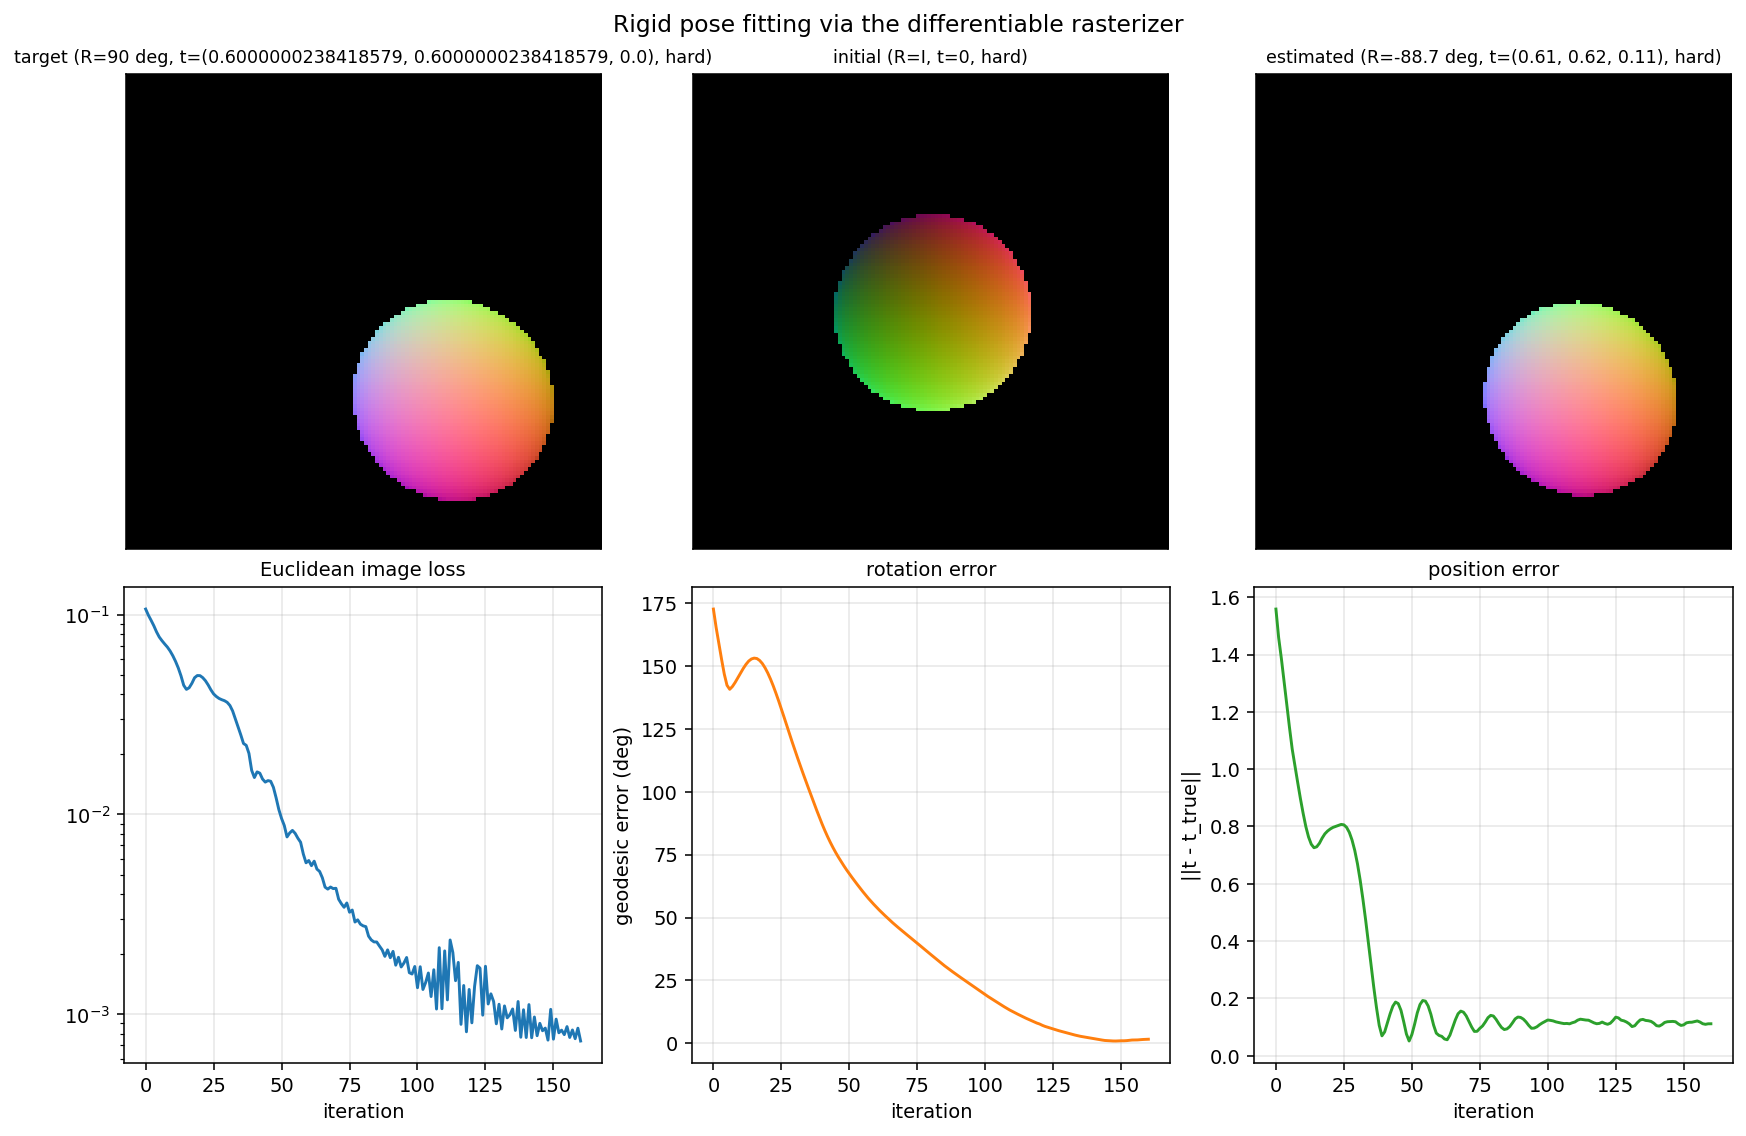
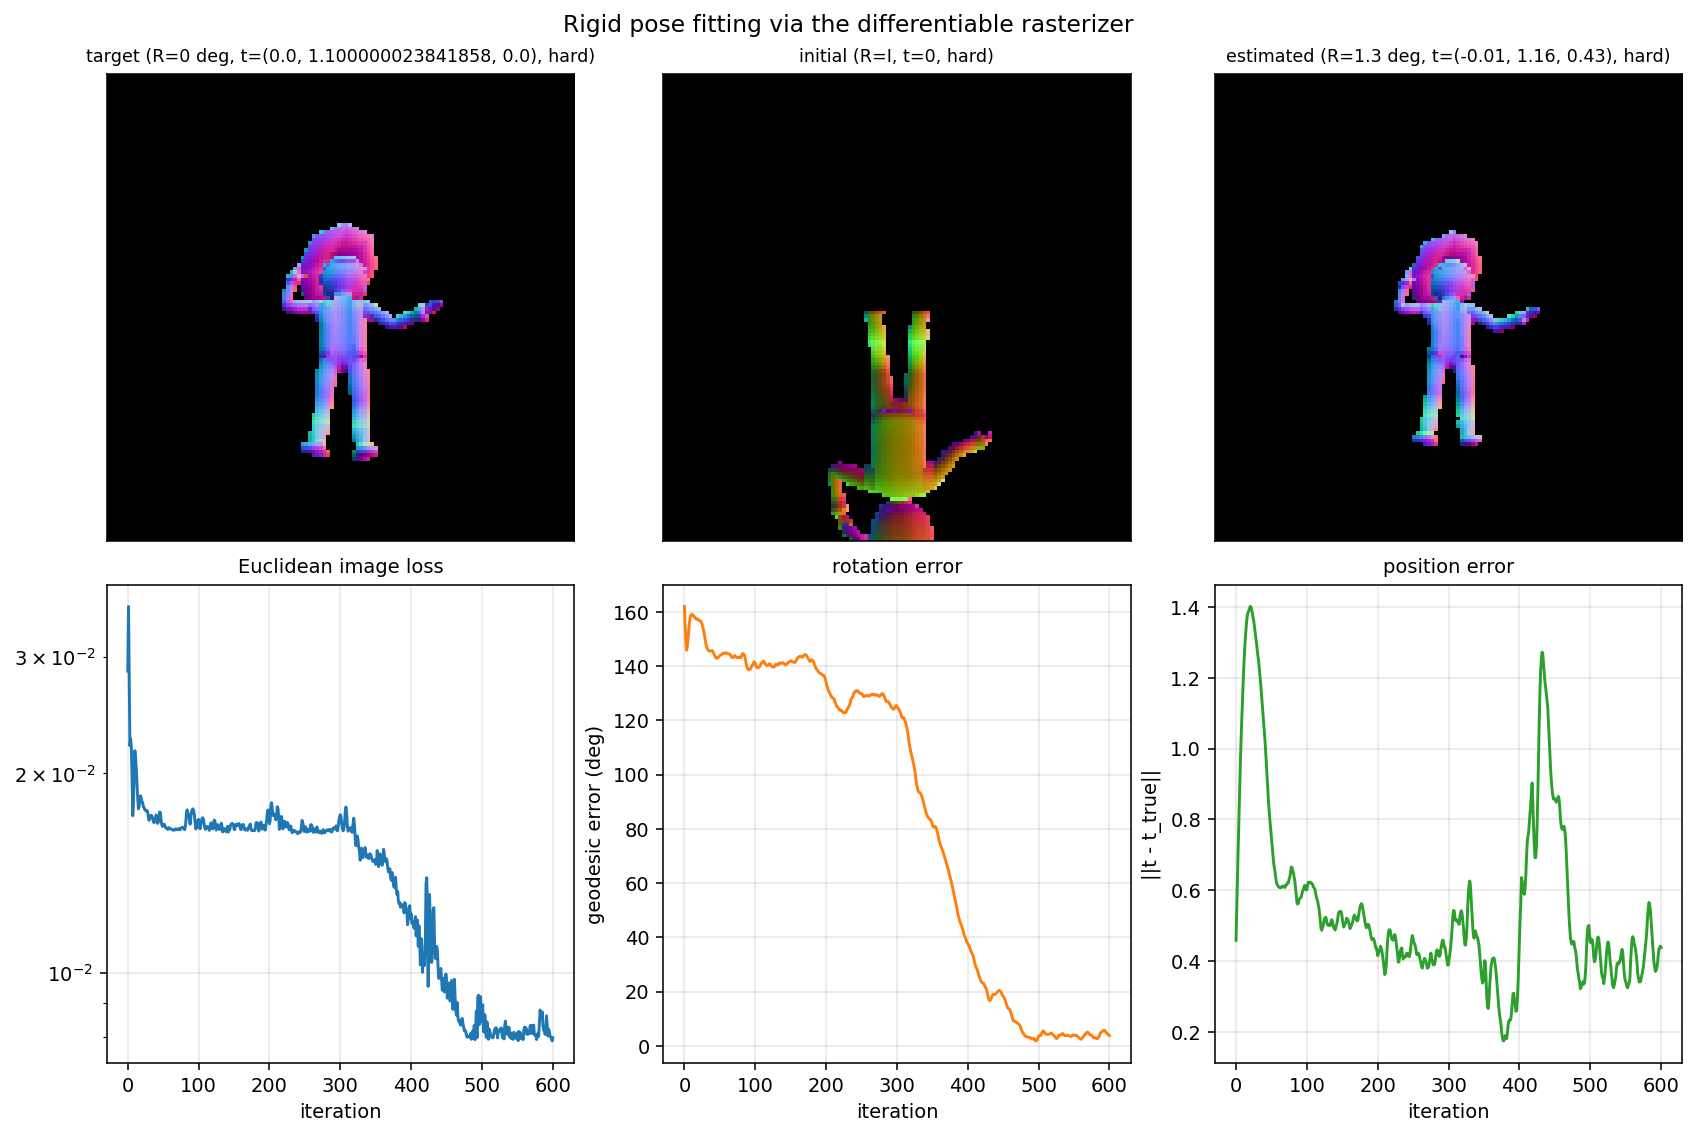
Dave pose estimation

diff --git a/docs/examples/rasterizer/pose_fitting.py b/docs/examples/rasterizer/pose_fitting.py
@@ -72,19 +72,20 @@ def y_angle(r):
 def main():
     here = os.path.dirname(os.path.abspath(__file__))
 
-    select_run = "sphere"
+    select_run = "dave"
 
     if select_run == "dave":
         # Optimization at a modest resolution keeps ~400 jitted iterations fast.
         H, W = 128, 128
+        scale = 1.3
         angle_true_deg = 0  # unknown rotation we try to recover
-        R_true = rf._rotation_y(jnp.deg2rad(angle_true_deg)) @ rf._rotation_x(jnp.deg2rad(180))
-        position_true = jnp.array([0.3, 0.8, 0.0])  # unknown translation we try to recover
-        pos_init = jnp.zeros(3)
-        params = (rf._rotation_y(76.0) @ R_true, pos_init)
-        n_steps = 100
-        learning_rate = 1e-2
-        scale = 1.0
+        R_true = rf._rotation_x(jnp.deg2rad(150))
+        position_true = jnp.array([0.0, 1.1, 0.0])  # unknown translation we try to recover
+        position_start = jnp.array([0.0, 0.8, 0.3])
+        params = (jnp.diag(jnp.array([0.0, -0.4, 0.9])), position_start)  # Init values
+        n_steps = 601
+        learning_rate = 1e-1
+        scale = 1.1
         # rot_init / params set below relative to R_true (180° about Y from ground truth).
     elif select_run == "sphere":
         H, W = 128, 128
@@ -159,7 +160,7 @@ def main():
 
     # Iterations at which to snapshot the (hard) render for the progress plot.
     #snapshot_steps = [0, n_steps // 4, 2 * n_steps // 4, 3 * n_steps // 4, n_steps - 1]
-    snapshot_steps = [0, 10, 20, 40, 160]
+    snapshot_steps = [0, 10, 200, 400, 600]
     
     # --- Training loop ----------------------------------------------------
     losses, rot_errors, pos_errors = [], [], []

diff --git a/docs/examples/rasterizer/rasterizer_functions.py b/docs/examples/rasterizer/rasterizer_functions.py
@@ -468,7 +468,7 @@ def main():
     import matplotlib.pyplot as plt
 
     # SETTINGS
-    MODEL_NAME = "sphere"  # "sphere" or "sphere"
+    MODEL_NAME = "dave"  # "sphere" or "sphere"
 
 
     here = os.path.dirname(os.path.abspath(__file__))
